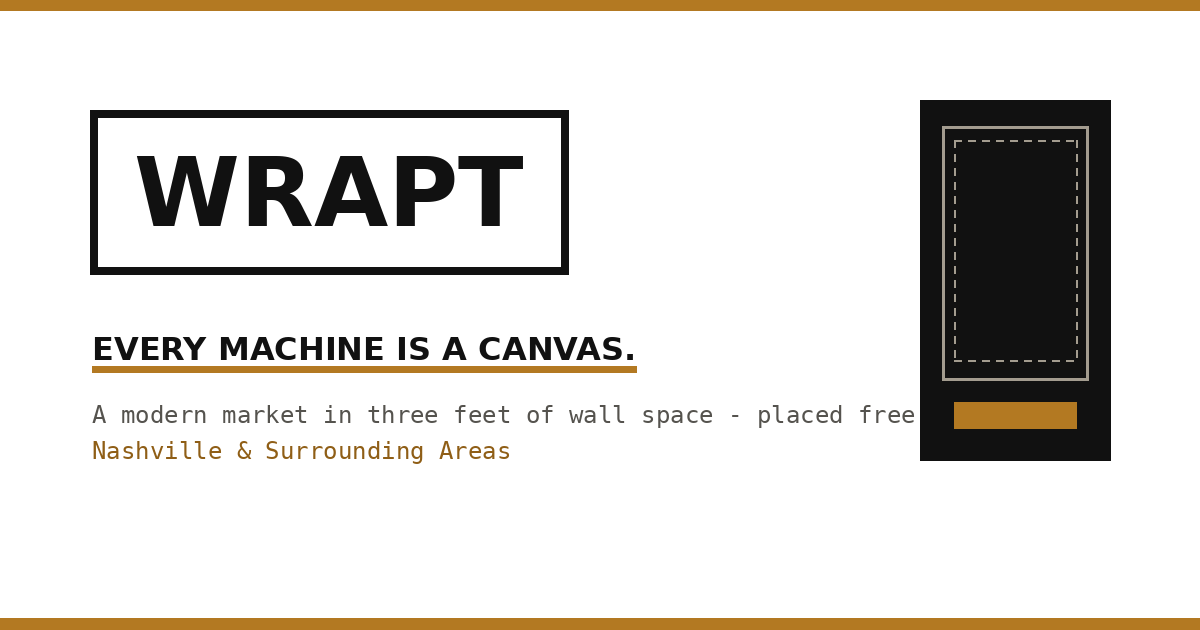
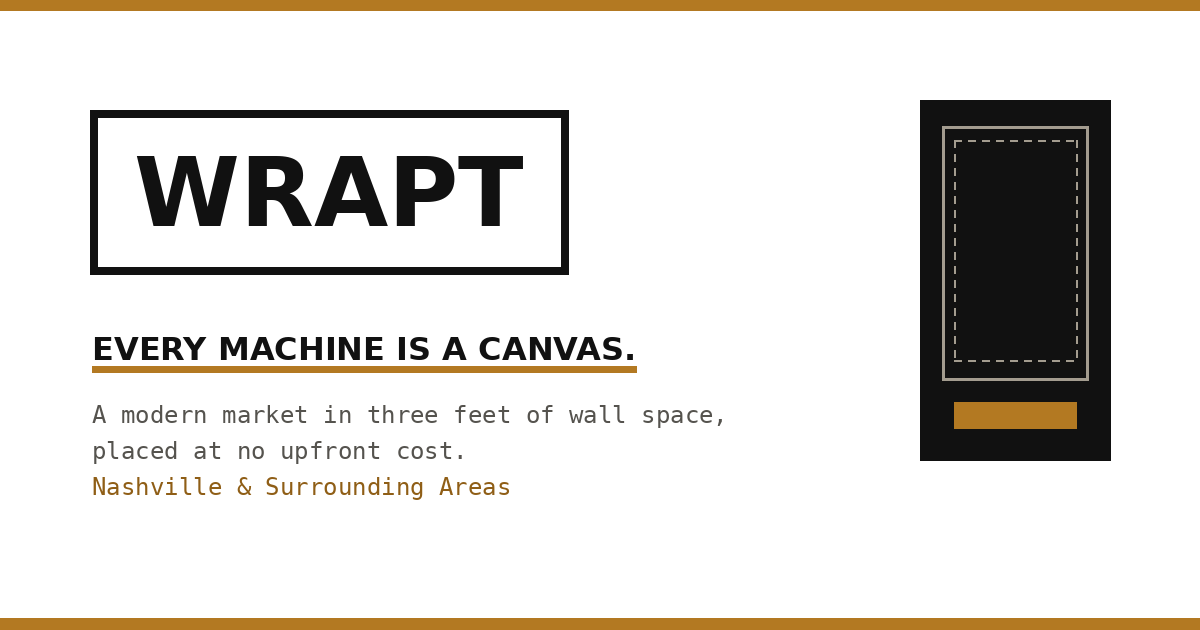
Link-preview image, form on phones, proposal figures
- og.png: the caption said "placed free"; it now reads "A modern market in three feet of wall
  space, placed at no upfront cost." (same font, colours and layout; one more line)
- index.html: the lead form's last step no longer runs off a phone screen (the submit label
  can wrap; grid children can shrink); a failed send restores the same label
- proposal: no site score or estimated gross. The lead-email link stops carrying grade/gross
  (Command's link stopped on 2026-11-04, #22), the page drops the two boxes and the revenue
  footnote, and an old link that still carries them shows nothing
- index.html: no longer promises "real numbers", "projected monthly numbers" or "your site score"

Claude-Session: https://claude.ai/code/session_01PYtM3TnBsJu9zf3FB1YyAH

Changed region(s): [[0.0617, 0.6937, 0.4317, 0.7841], [0.6167, 0.6333, 0.7708, 0.6937]]

diff --git a/proposal.html b/proposal.html
@@ -19,11 +19,6 @@ h1,h2{font-family:'Archivo';text-transform:uppercase;letter-spacing:-.02em;line-
 h1{font-size:42px;margin-bottom:6px}
 .for{color:var(--muted);margin-bottom:34px}
 .for b{color:var(--cream)}
-.grid{display:grid;grid-template-columns:1fr 1fr;gap:12px;margin-bottom:34px}
-.box{background:var(--panel);border:1px solid var(--line);padding:18px}
-.box label{font-family:'Space Mono';font-size:10px;letter-spacing:.16em;color:var(--muted);text-transform:uppercase}
-.box b{display:block;font-family:'Archivo';font-size:34px;font-weight:900;margin-top:3px}
-.box b.gold{color:var(--gold-deep)}
 h2{font-size:22px;margin:32px 0 12px;color:var(--cream);border-bottom:3px solid var(--gold);padding-bottom:6px;display:inline-block}
 ul{list-style:none}
 li{padding:8px 0;border-bottom:1px dashed #1c1f25;display:flex;gap:11px;color:var(--muted)}
@@ -43,8 +38,7 @@ li b{color:var(--cream);font-weight:500}
   body{background:#fff;color:#111}
   .bar{display:none}
   .page{padding:0}
-  .box,.terms{background:#f6f4ef;border-color:#ddd}
-  .box b{color:#111}.box b.gold{color:#111}
+  .terms{background:#f6f4ef;border-color:#ddd}
   h2{color:#111;border-color:#111}
   li{color:#444;border-color:#e3e0d8}li b{color:#111}
   .trow span{color:#555}
@@ -64,11 +58,6 @@ li b{color:var(--cream);font-weight:500}
 
   <h1>No upfront cost.<br><span style="border-bottom:6px solid var(--gold)">Fully serviced.</span></h1>
   <p class="for">Prepared for <b id="pName">—</b><span id="pCoWrap"> at <b id="pCo">—</b></span><span id="pCityWrap">, <span id="pCity"></span></span></p>
-
-  <div class="grid">
-    <div class="box"><label>Site score</label><b class="gold" id="pGrade">—</b></div>
-    <div class="box"><label>Est. gross / month</label><b id="pGross">—</b></div>
-  </div>
 
   <h2>What Wrapt provides — at no upfront cost to you</h2>
   <ul>
@@ -95,7 +84,7 @@ li b{color:var(--cream);font-weight:500}
     <div>WRAPT — SIGNATURE / DATE</div>
   </div>
 
-  <p class="note">Revenue figures are estimates based on the traffic and venue details you provided, using typical-traffic assumptions, not measured results. Actual results vary by location. This proposal is valid for 14 days.</p>
+  <p class="note">This proposal is valid for 14 days.</p>
 </div>
 
 <div class="bar">
@@ -116,12 +105,10 @@ li b{color:var(--cream);font-weight:500}
     }
   }catch(e){}
   // the link is unsigned, so cap what it can put on the page and never let it change the terms
-  ['name','co','city','venue','wants','grade','gross'].forEach(k=>{if(d[k]!=null)d[k]=String(d[k]).slice(0,120);});
+  ['name','co','city','venue','wants'].forEach(k=>{if(d[k]!=null)d[k]=String(d[k]).slice(0,120);});
   if(d.name)$('pName').textContent=d.name;
   if(d.co)$('pCo').textContent=d.co; else $('pCoWrap').style.display='none';
   if(d.city)$('pCity').textContent=d.city; else $('pCityWrap').style.display='none';
-  if(d.grade)$('pGrade').textContent=d.grade;
-  if(d.gross)$('pGross').textContent=d.gross;
   if(d.venue){
     const v=d.venue.toLowerCase();
     $('pMachine').textContent=(v.includes('hotel')||v.includes('hospit')||v.includes('school')||v.includes('campus'))

diff --git a/index.html b/index.html
@@ -310,6 +310,9 @@ select.inp:focus,input.inp:focus,textarea.inp:focus{border-color:var(--gold);out
 .f2{display:grid;grid-template-columns:1fr 1fr;gap:14px}
 .field-lbl{display:block;font-size:13px;color:var(--muted);margin:0 0 7px;letter-spacing:.04em}
 .fnav{display:flex;justify-content:space-between;margin-top:28px;gap:12px}
+/* the last step's label is long: let it wrap instead of pushing the card wider than a phone */
+.fnav .btn{white-space:normal;justify-content:center;text-align:center}
+.funnel-grid>*{min-width:0}
 .form-done{text-align:center;padding:30px 10px}
 .form-done .big{font-size:44px;color:var(--brass-hi)}
 .form-done p{color:var(--muted);margin:12px 0 24px}
@@ -598,9 +601,8 @@ footer{border-top:1px solid var(--line);padding:38px 0;font-size:13.5px;color:va
     <div class="funnel-side">
       <div class="eyebrow"><span class="slot">E1</span> Start a Deal</div>
       <h2 style="font-size:clamp(36px,4.5vw,52px)">Sixty seconds to a proposal.</h2>
-      <p>Tell us where the machine goes. You get a proposal with real numbers for your location, then a fifteen-minute call.</p>
+      <p>Tell us where the machine goes. You get a proposal for your location, then a fifteen-minute call.</p>
       <div class="checkline">Site scored within 24 hours</div>
-      <div class="checkline">A proposal with projected monthly numbers</div>
       <div class="checkline">No upfront cost to host</div>
       <div class="checkline">Install in as little as 2 weeks</div>
     </div>
@@ -1169,7 +1171,7 @@ $('btnNext').addEventListener('click',async()=>{
       const res=await fetch('/',{method:'POST',headers:{'Content-Type':'application/x-www-form-urlencoded'},body:data});
       status=res.status;sent=res.ok;
     }catch(e){status=-1;}
-    $('btnNext').disabled=false;$('btnNext').textContent='Send my request';
+    $('btnNext').disabled=false;$('btnNext').textContent='Send my proposal request';
     if(!sent&&location.protocol!=='file:'){
       console.warn('Lead submit failed, HTTP',status);
       $('err3').textContent='That didn\u2019t go through (code '+status+'). Text us at 615.948.2976 and we\u2019ll take it from there.';
@@ -1181,7 +1183,7 @@ $('btnNext').addEventListener('click',async()=>{
     } else $('doneMsg').innerHTML=cm==='Call me'
       ? `Got it — expect our call ${$('fBestTime').value==='Anytime'?'shortly':$('fBestTime').value.toLowerCase()}.<br>Want to lock a time instead?`
       : cm==='Text me'
-      ? `Got it — we'll text you shortly with your site score.<br>Or start the thread yourself:`
+      ? `Got it — we'll text you shortly.<br>Or start the thread yourself:`
       : `Your proposal is in the queue — expect it within 24 hours.<br>Want a time on the calendar?`;
     show(DONE);
   }

diff --git a/netlify/functions/submission-created.js b/netlify/functions/submission-created.js
@@ -14,10 +14,10 @@ const roiSms = (r) =>
   ` | Site ${r.grade || "?"}: ${r.monthlyGross || "?"}/mo${r.annualValue ? `, ${r.annualValue}/yr` : ""}`;
 const roiRowText = (r) =>
   `${r.grade || "?"} · ${r.monthlyGross || "?"}/mo gross${r.annualValue ? ` · ${r.annualValue}/yr to host` : ""}${r.basis === "form estimate" ? " (estimated from form answers)" : ""}`;
-// Proposal deep-link payload (same format command.html builds). No annual/share: the host sees this URL.
+// Proposal deep-link payload (same format command.html builds). No figures (sir, 2026-11-04): the host sees this URL.
 const proposalPayload = (d, r) => ({
   name: d.name || "", co: d.company || "", city: d.city || "", venue: d.venue_type || "",
-  wants: d.product_interests || "", grade: r?.grade || "", gross: r?.monthlyGross || "",
+  wants: d.product_interests || "",
 });
 exports.roiSms = roiSms;
 exports.roiRowText = roiRowText;
